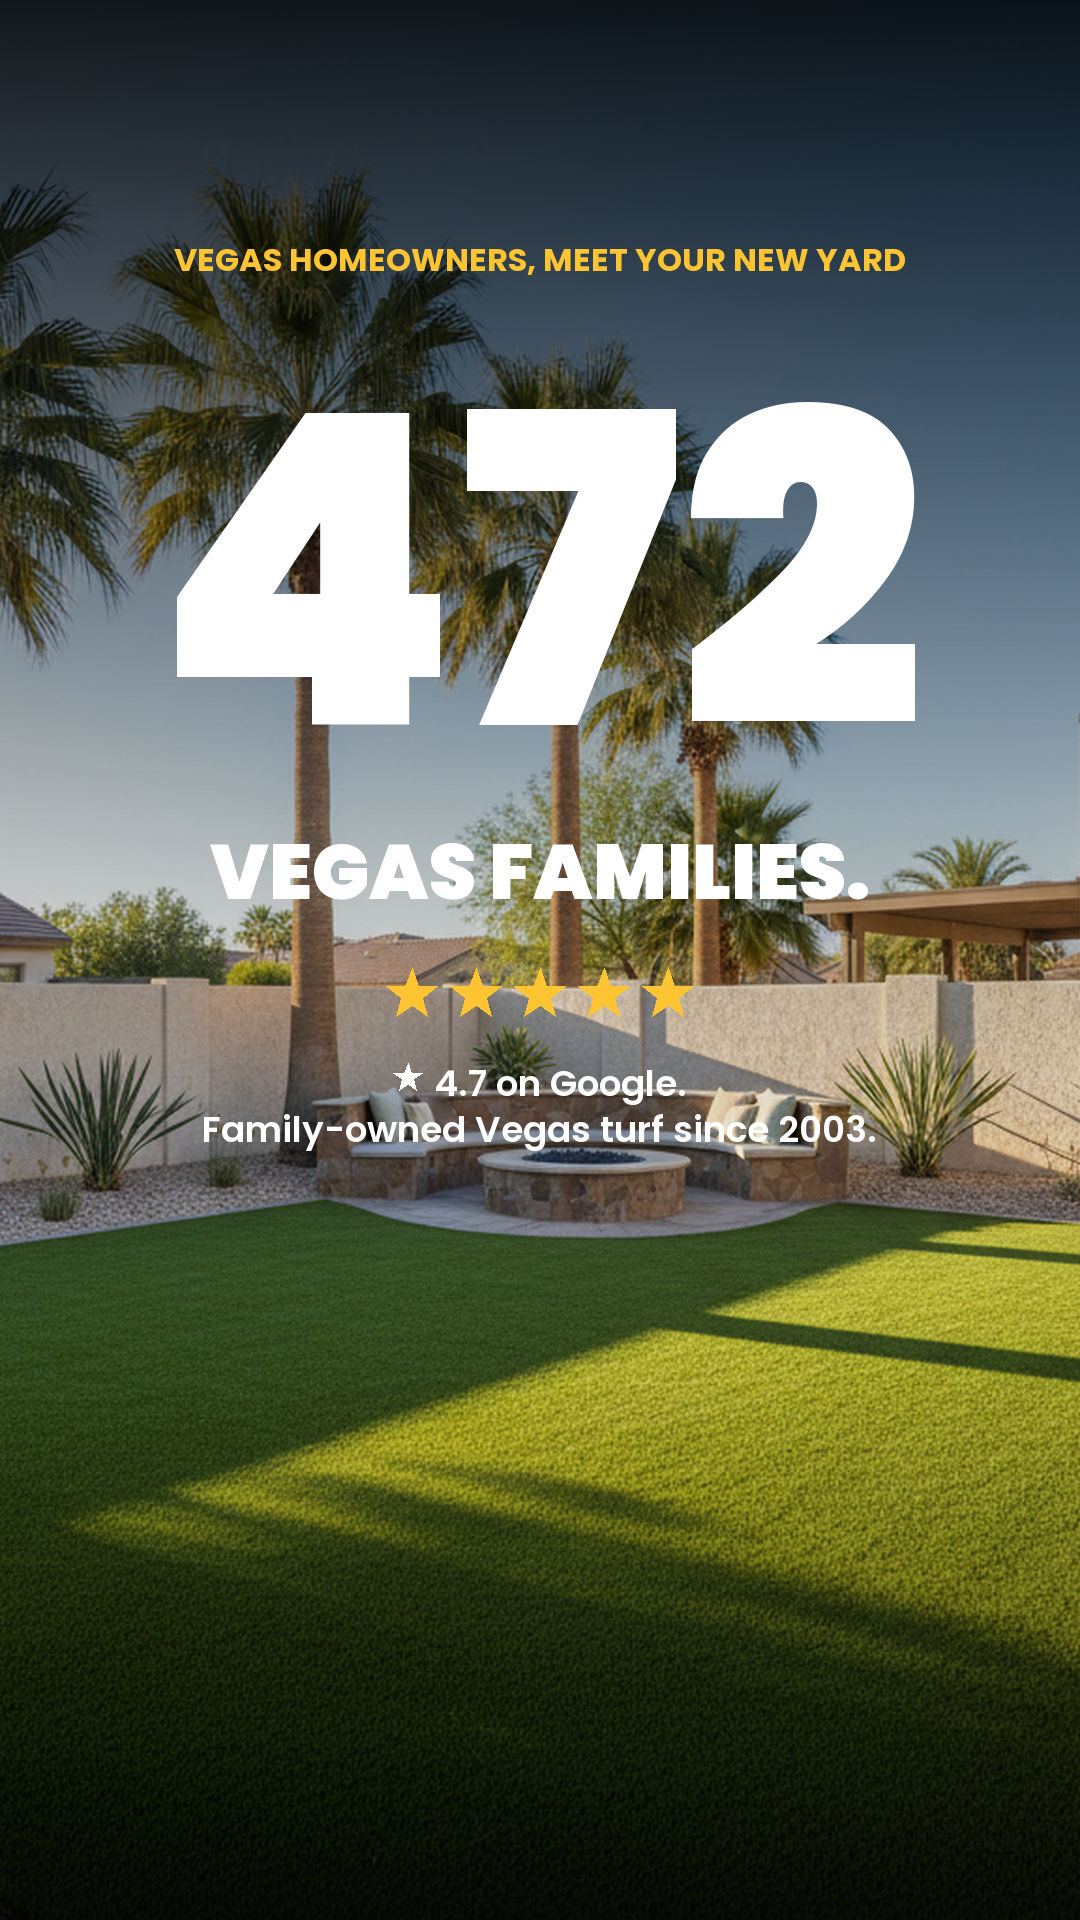
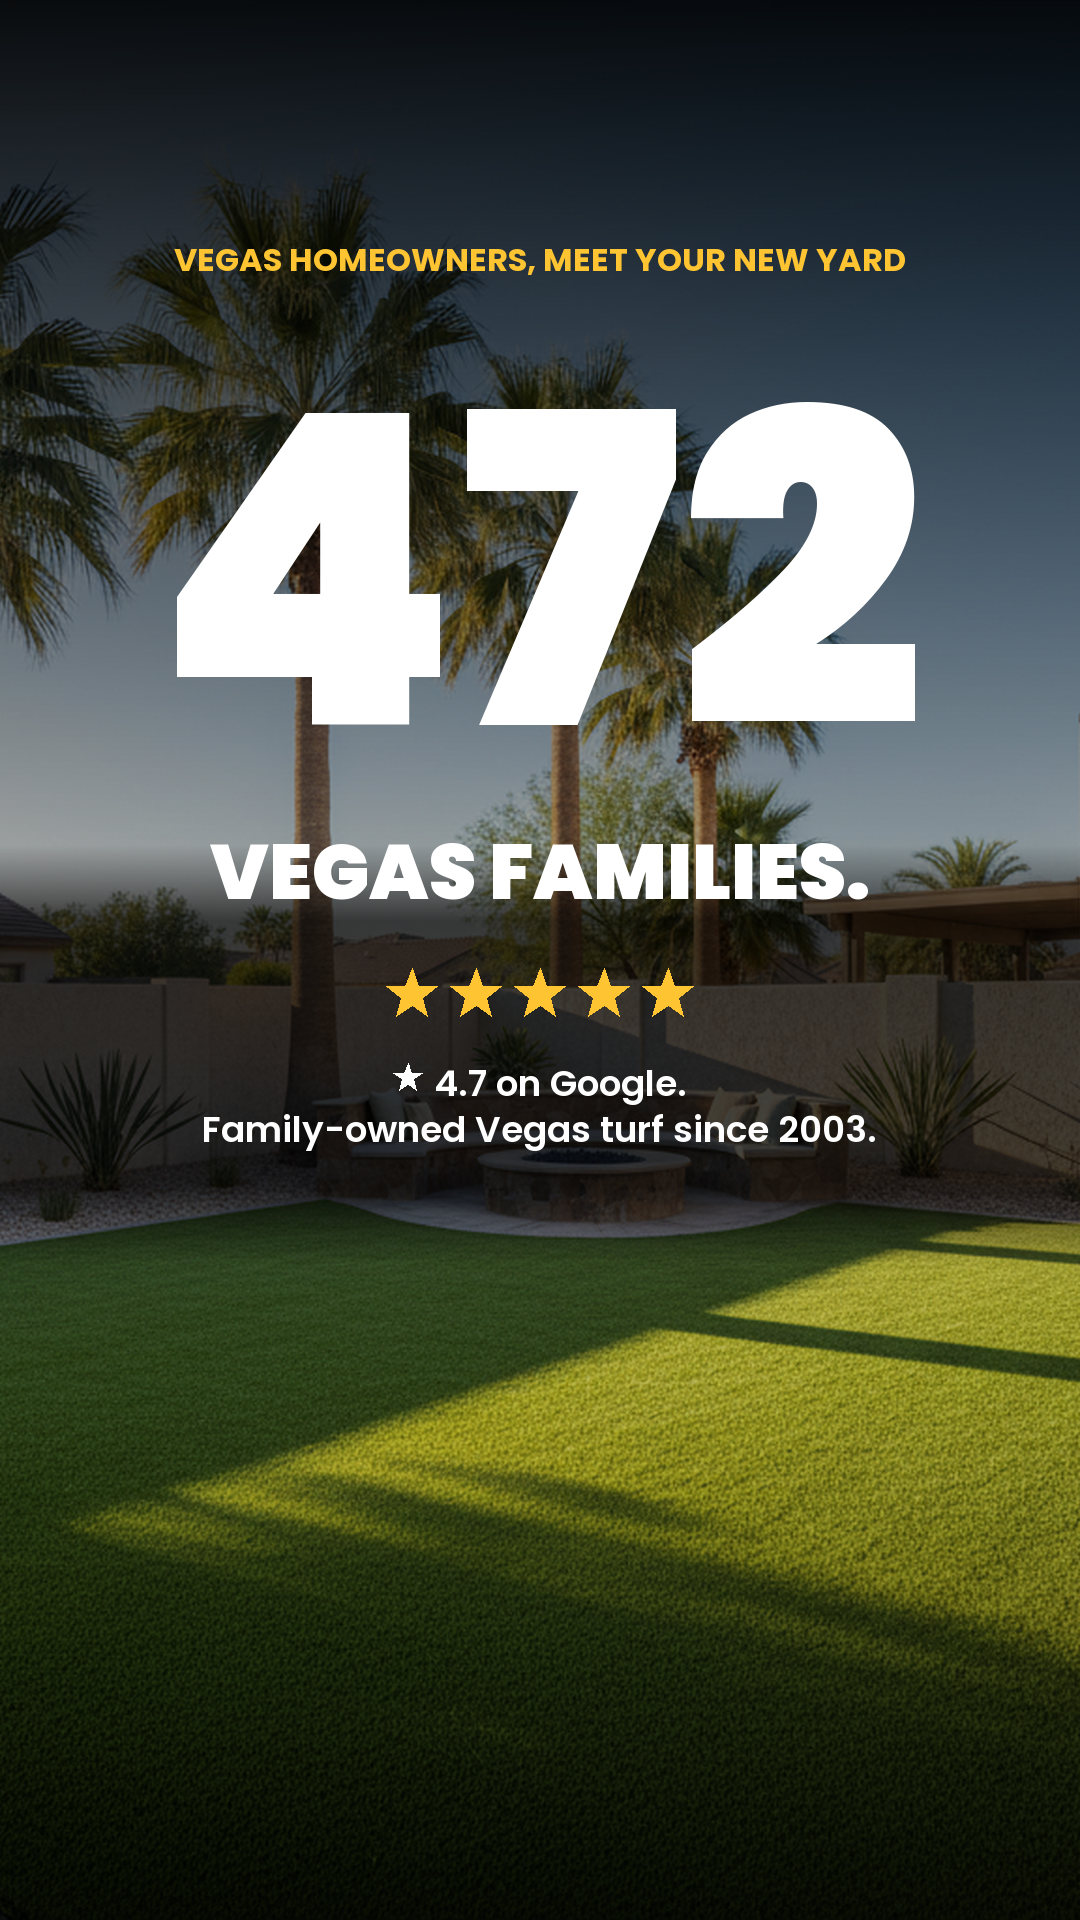
V1 9x16 readability: stronger top scrim + localized band behind tag region
The 5-star row + "★ 4.7 on Google" + "Family-owned Vegas turf since 2003"
sat over the brightest sun-lit area of the lush-vegas-backyard photo, where
the top scrim had already faded to ~10% alpha — white text was barely
legible.

Two fixes:
- Top scrim 0.70 → 0.85 height_frac, max_alpha 225 → 240 (vertical only)
- New add_band_scrim helper draws a feathered horizontal dark band
  precomputed to land behind the stars + tag text. Layout y-positions are
  resolved up front so the band can be placed before the text is drawn.

Square (1:1) untouched — that layout doesn't have the bright-turf overlap
problem.

Changed region(s): [[0.0, 0.25, 1.0, 0.6562], [0.6722, 0.25, 0.7639, 0.3125]]

diff --git a/build-batch.py b/build-batch.py
@@ -166,6 +166,27 @@ def add_bottom_scrim(canvas, height_frac=0.40, max_alpha=215):
     return canvas
 
 
+def add_band_scrim(canvas, y_start, y_end, max_alpha=170, fade=80):
+    """Horizontal dark band from y_start..y_end with feathered top/bottom edges.
+    Use to darken a localized region behind text without over-darkening the rest."""
+    W, H = canvas.size
+    grad = Image.new("RGBA", (W, H), (0, 0, 0, 0))
+    gd = ImageDraw.Draw(grad)
+    fade_top = max(0, y_start - fade)
+    for i in range(y_start - fade_top):
+        a = int(max_alpha * (i / max(1, fade)))
+        gd.line([(0, fade_top + i), (W, fade_top + i)], fill=(0, 0, 0, a))
+    gd.rectangle([(0, y_start), (W, y_end)], fill=(0, 0, 0, max_alpha))
+    fade_bot_end = min(H, y_end + fade)
+    for i in range(fade_bot_end - y_end):
+        a = int(max_alpha * (1 - i / max(1, fade)))
+        gd.line([(0, y_end + i), (W, y_end + i)], fill=(0, 0, 0, a))
+    if canvas.mode != "RGBA":
+        canvas = canvas.convert("RGBA")
+    canvas.alpha_composite(grad)
+    return canvas
+
+
 def build_fullbleed(W, H, photo_path, headline, sub, cta_text, out,
                     eyebrow=None, headline_color=WHITE, accent_words=None,
                     accent_color=GOLD, cta_fill=USTURF_GREEN, cta_text_color=WHITE):
@@ -247,9 +268,27 @@ def build_v1_stat_shock_472(W, H, out):
     canvas = fit_cover(photo, W, H).convert("RGBA")
     is_vertical = H > W * 1.5
     top_shift = int(H * 0.08) if is_vertical else 0  # clear Meta Reels/Stories top safe zone
-    # On 9:16, content shifts down 8% — extend top scrim so tag region stays legible
-    canvas = add_top_scrim(canvas, 0.70 if is_vertical else 0.55, max_alpha=225 if is_vertical else 215)
+
+    # Precompute layout y-positions so we can place a localized scrim behind the
+    # stars + tag region BEFORE drawing text on top.
+    big_size_pre = int(W * 0.40)
+    big_y_pre = int(H * 0.13) + top_shift
+    sub_size_pre = int(W * 0.072)
+    sub_y_pre = (big_y_pre + big_size_pre) + int(H * 0.005)
+    star_y_pre = sub_y_pre + sub_size_pre + int(H * 0.025)
+    star_size_pre = int(W * 0.025)
+    tag_size_pre = max(24, int(W * 0.034))
+    tag_y_pre = star_y_pre + star_size_pre * 2 + int(H * 0.025)
+    family_end_y_pre = tag_y_pre + tag_size_pre + 8 + tag_size_pre
+
+    canvas = add_top_scrim(canvas, 0.85 if is_vertical else 0.55, max_alpha=240 if is_vertical else 215)
     canvas = add_bottom_scrim(canvas, 0.35, max_alpha=200)
+    if is_vertical:
+        # Localized darken band behind the 5-star row + tag lines (sun-lit turf area
+        # otherwise drowns the white text). Feathered edges keep the photo natural.
+        band_top = star_y_pre - int(H * 0.025)
+        band_bot = family_end_y_pre + int(H * 0.020)
+        canvas = add_band_scrim(canvas, band_top, band_bot, max_alpha=170, fade=int(H * 0.04))
     draw = ImageDraw.Draw(canvas, "RGBA")
 
     # Eyebrow